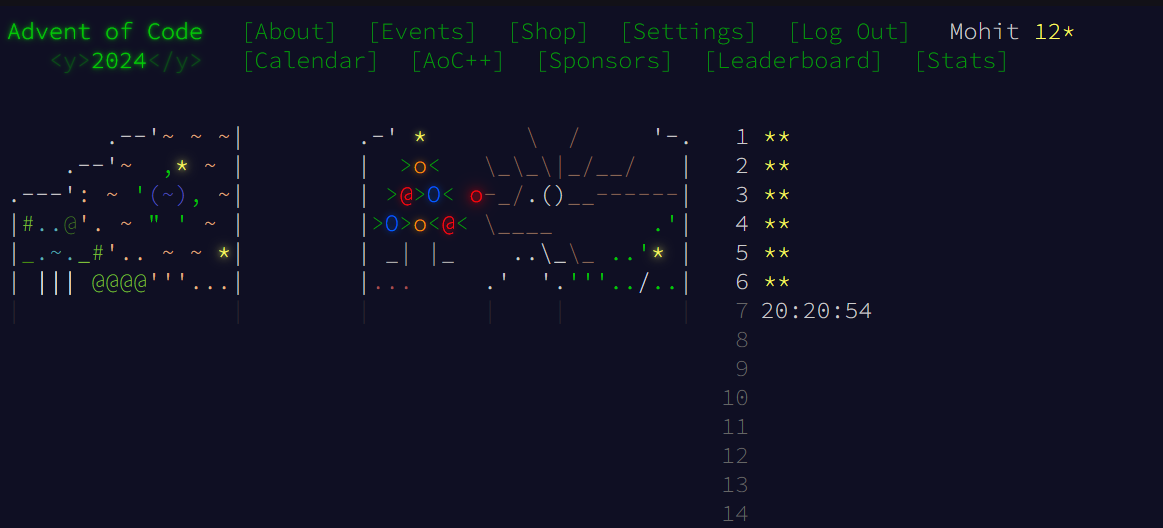
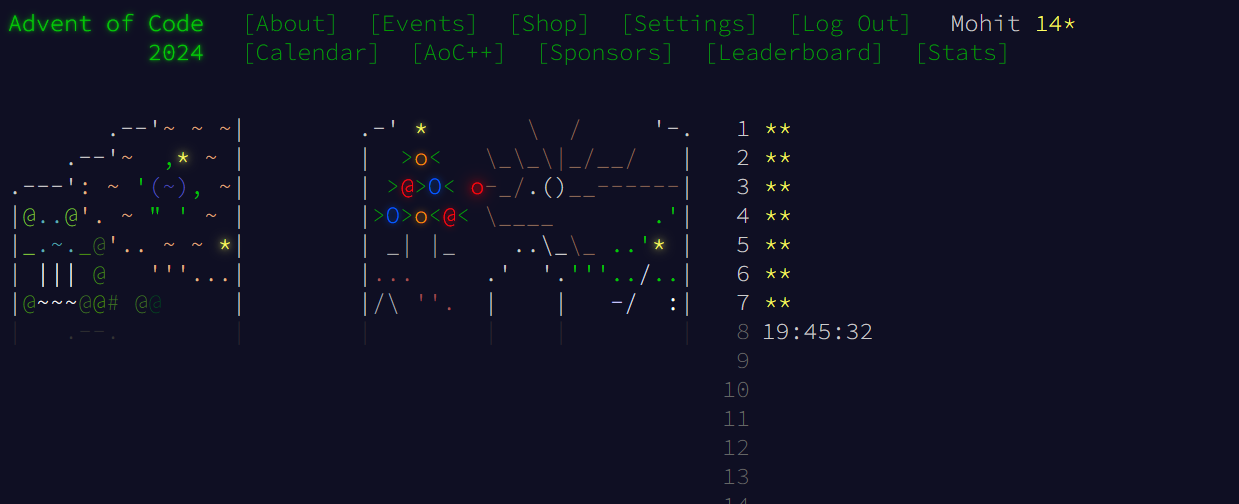
Day7 complete

diff --git a/day7/day7.go b/day7/day7.go
@@ -7,14 +7,14 @@ import (
 	"strings"
 )
 
-func isValid(test string, eq []string, idx, sum int) bool {
+func isValid(test string, eq []string, idx int, sum string) bool {
 	if idx == len(eq) {
-		chk, err := strconv.Atoi(test)
-		if err != nil {
-			fmt.Println(err)
-		}
+		// chk, err := strconv.Atoi(test)
+		// if err != nil {
+		// 	fmt.Println(err)
+		// }
 
-		if sum == chk {
+		if sum == test {
 			return true
 		}
 		return false
@@ -26,10 +26,18 @@ func isValid(test string, eq []string, idx, sum int) bool {
 	if err != nil {
 		fmt.Println(err)
 	}
-	take_sum := isValid(test, eq, idx+1, sum+el)
-	take_mul := isValid(test, eq, idx+1, sum*el)
 
-	return leave || take_sum || take_mul
+	temp_sum, err := strconv.Atoi(sum)
+	if err != nil {
+		fmt.Println(sum)
+		fmt.Println(err, "here")
+	}
+
+	take_sum := isValid(test, eq, idx+1, strconv.Itoa(temp_sum+el))
+	take_mul := isValid(test, eq, idx+1, strconv.Itoa(temp_sum*el))
+	take_conc := isValid(test, eq, idx+1, sum+eq[idx])
+
+	return leave || take_sum || take_mul || take_conc
 }
 
 func main() {
@@ -48,20 +56,26 @@ func main() {
 		equations = append(equations, strings.Split(strings.Trim(arr[1], " "), " "))
 	}
 
-	sum_part1 := 0
+	sum := 0
 	for i, eq := range equations {
-		start, err := strconv.Atoi(eq[0])
-		if err != nil {
-			fmt.Println(err)
-		}
-		if isValid(test[i], eq, 1, start) {
+
+		// --- part 1 --
+
+		// start, err := strconv.Atoi(eq[0])
+		// if err != nil {
+		// 	fmt.Println(err)
+		// }
+
+		// --- part 1 end ---
+
+		if isValid(test[i], eq, 1, eq[0]) {
 			n, err := strconv.Atoi(test[i])
 			if err != nil {
 				fmt.Println(err)
 			}
-			sum_part1 += n
+			sum += n
 		}
 	}
 
-	fmt.Println(sum_part1)
+	fmt.Println(sum)
 }
